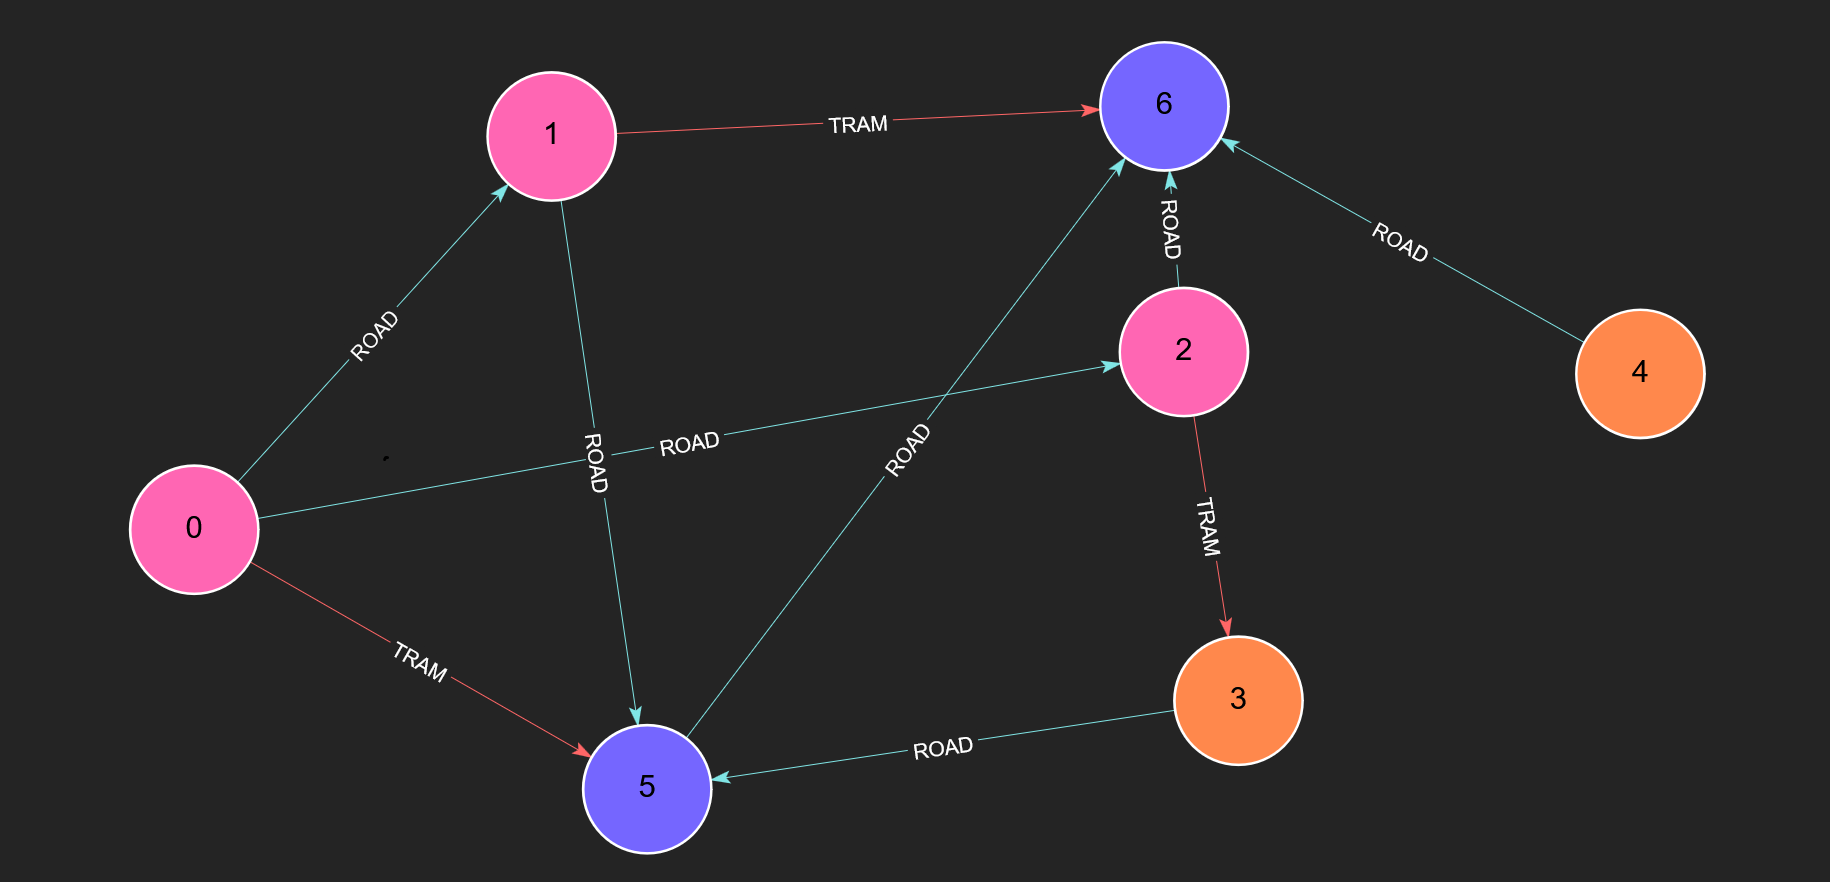
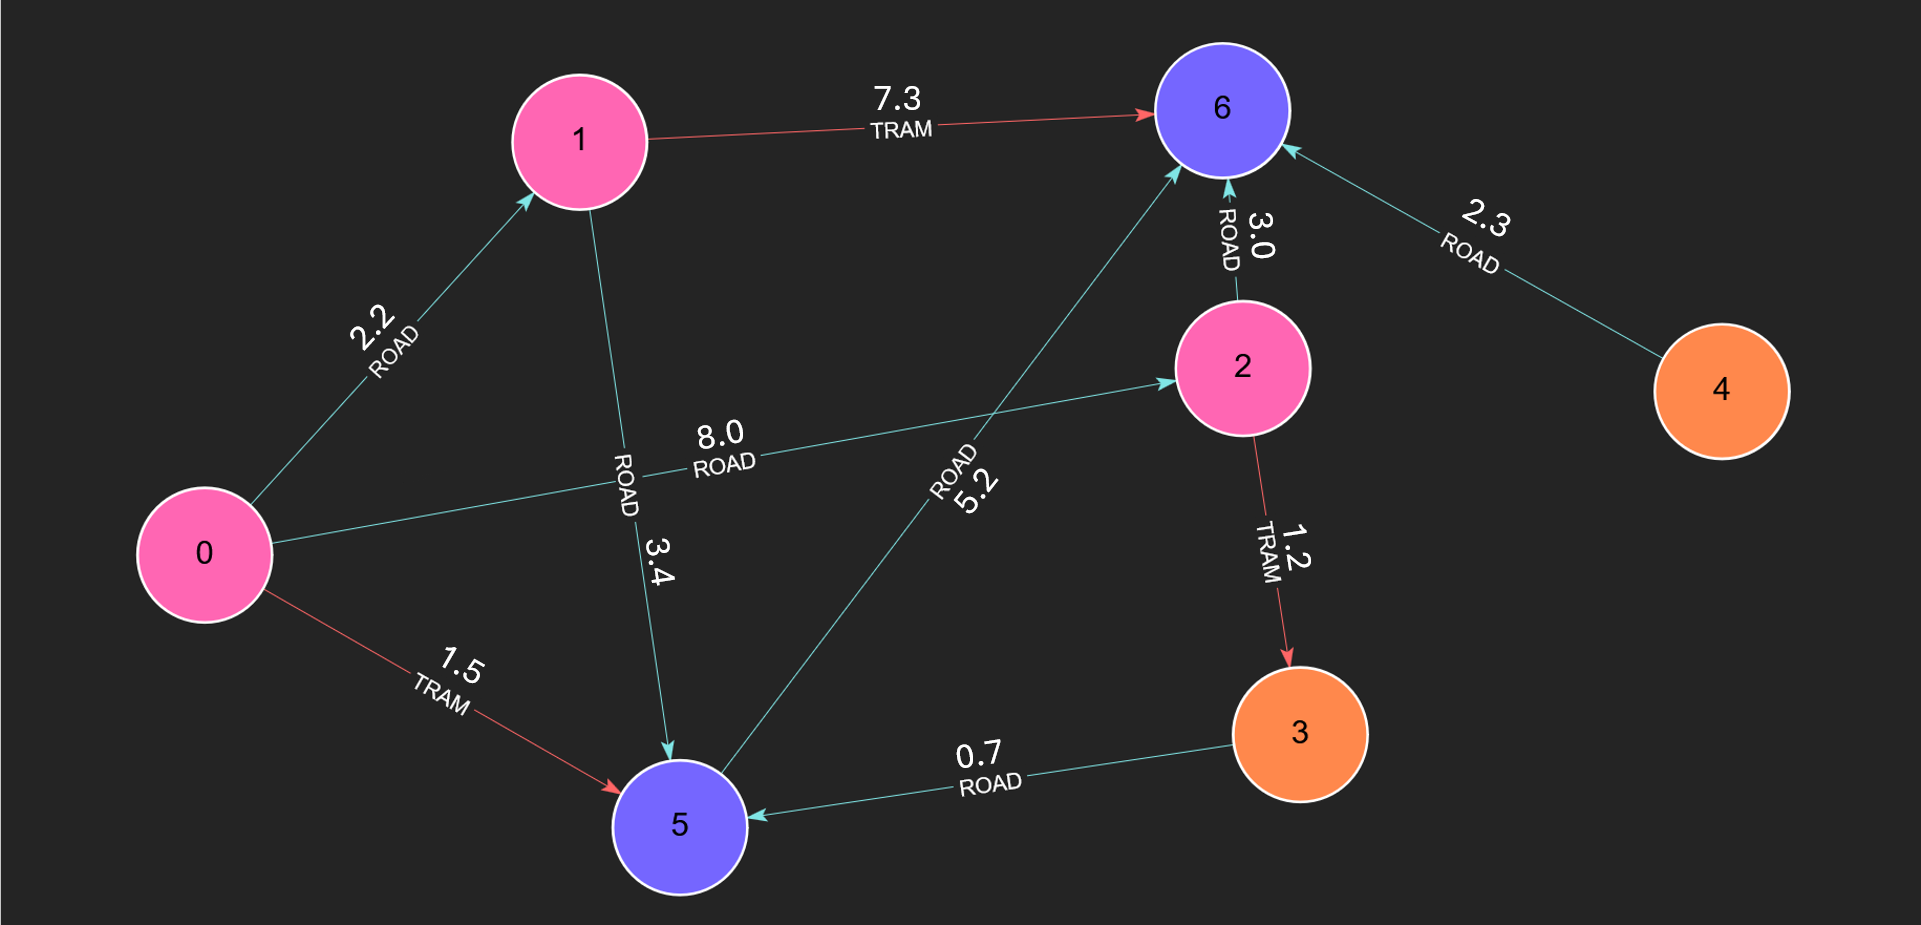
MSF example graph and weights

diff --git a/algorithms/msf.md b/algorithms/msf.md
@@ -11,7 +11,9 @@ parent: "Algorithms"
 The Minimum Spanning Forest (MSF) identifies the minimum weight acyclic graph (tree) spanning every node in each connected component in the graph, disregarding edge directions. Any nodes that shared a weakly connected component still share that component in the MSF subgraph.
 
 MSF serves as a common algorithm in scenarios such as:
-- 
+- Designing a cost-effective road network connecting several cities.
+- Identifying core connections in a social network.
+- Optimizing the layout of power grids to minimize cable length.
 
 ## Algorithm Details
 
@@ -44,14 +46,11 @@ The procedure returns a stream of records with the following fields:
 
 ## Examples:
 
-Lets take this Social Graph as an example:
+Lets take this City as an example:
 
 ![City Graph](../images/city_plan.png)
 
-There are 3 different communities in this graph:
-- Alice, Bob, Charlie
-- David, Emma
-- Frank 
+
 
 ### Create the Graph
 
@@ -64,22 +63,28 @@ CREATE
   (Water:UTIL),
   (Building_A:RES),
   (Building_B:RES),
-  (CityHall)-[rA:ROAD {cost: 5}]->(CourtHouse),
-  (CityHall)-[rB:ROAD {cost: 7}]->(FireStation),
-  (CourtHouse)-[rC:ROAD {cost: 4}]->(Building_A),
-  (FireStation)-[rD:ROAD {cost: 6}]->(Building_B),
-  (Building_A)-[rF:ROAD {cost: 8}]->(Building_B),
-  (Electricity)-[rG:ROAD {cost: 3}]->(Building_A),
-  (Water)-[rH:ROAD {cost: 2}]->(Building_B),
-  (CityHall)-[tA:TRAM {cost: 3}]->(Building_A),
-  (CourtHouse)-[tB:TRAM {cost: 5}]->(Building_B),
-  (FireStation)-[tC:TRAM {cost: 4}]->(Electricity)
-  RETURN *
+  (CityHall)-[rA:ROAD {cost: 2.2}]->(CourtHouse),
+  (CityHall)-[rB:ROAD {cost: 8.0}]->(FireStation),
+  (CourtHouse)-[rC:ROAD {cost: 3.4}]->(Building_A),
+  (FireStation)-[rD:ROAD {cost: 3.0}]->(Building_B),
+  (Building_A)-[rF:ROAD {cost: 5.2}]->(Building_B),
+  (Electricity)-[rG:ROAD {cost: 0.7}]->(Building_A),
+  (Water)-[rH:ROAD {cost: 2.3}]->(Building_B),
+  (CityHall)-[tA:TRAM {cost: 1.5}]->(Building_A),
+  (CourtHouse)-[tB:TRAM {cost: 7.3}]->(Building_B),
+  (FireStation)-[tC:TRAM {cost: 1.2}]->(Electricity)
 ```
 ### Example: Find cheapest road network:
 ```cypher
-CALL algo.WCC(null) yield node, componentId
+CALL algo.MSF() YIELD edge, weight
 ```
 
 #### Expected Results
-<!-- TODO -->
+| Edge      | weight |
+|-----------|--------|
+| `[:ROAD]` | 0.7    |
+| `[:TRAM]` | 1.2    |
+| `[:TRAM]` | 1.5    |
+| `[:ROAD]` | 2.2    |
+| `[:ROAD]` | 2.3    |
+| `[:ROAD]` | 3.0    |
